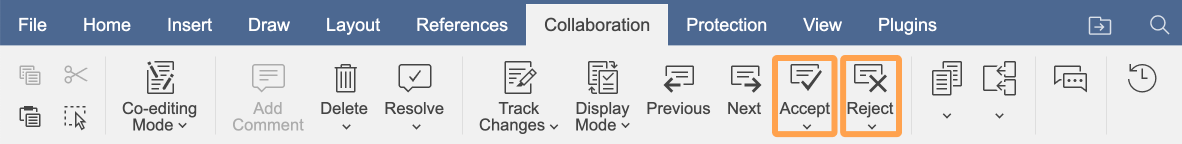
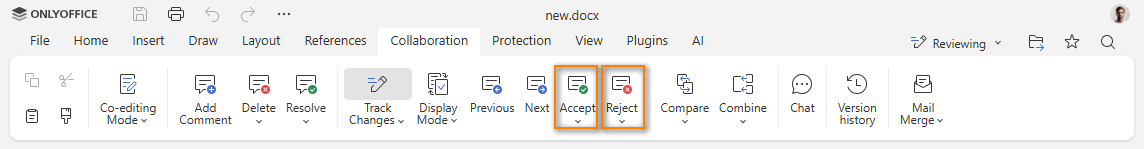
Update images for reviewing.md page add dark theme support for screenshots (EN and zh-CN)

diff --git a/i18n/zh-CN/docusaurus-plugin-content-docs-api/current/docs/docs-api/get-started/how-it-works/reviewing.md b/i18n/zh-CN/docusaurus-plugin-content-docs-api/current/docs/docs-api/get-started/how-it-works/reviewing.md
@@ -6,7 +6,7 @@ sidebar_position: -15
 
 审阅模式允许用户在不直接修改原始文本的情况下对文档提出修改建议。所有更改都会被跟踪，具有相应权限的用户可以接受或拒绝这些更改。本节介绍如何在集成中启用和配置审阅功能。
 
-![审阅](/assets/images/editor/review.png)
+![审阅](/assets/images/editor/review.png#gh-light-mode-only)![审阅](/assets/images/editor/review.dark.png#gh-dark-mode-only)
 
 ## 审阅访问权限
 
@@ -14,7 +14,7 @@ sidebar_position: -15
 
 如果 `permissions.edit` 为 `true` 且 `permissions.review` 也为 `true`，用户可以编辑文档、接受或拒绝跟踪的更改，以及切换到审阅模式。
 
-![审阅](/assets/images/editor/accept_reject.png)
+![审阅](/assets/images/editor/accept_reject.png#gh-light-mode-only)![审阅](/assets/images/editor/accept_reject.dark.png#gh-dark-mode-only)
 
 如果 `permissions.edit` 为 `false` 且 `permissions.review` 为 `true`，则文档仅可用于审阅。
 

diff --git a/site/docs/docs-api/get-started/how-it-works/reviewing.md b/site/docs/docs-api/get-started/how-it-works/reviewing.md
@@ -6,7 +6,7 @@ sidebar_position: -15
 
 Review mode lets users suggest changes to a document without modifying the original text directly. All changes are tracked and can be accepted or rejected by users with the appropriate rights. This section explains how to enable and configure reviewing in your integration.
 
-![Review scheme](/assets/images/editor/review.png)
+![Review scheme](/assets/images/editor/review.png#gh-light-mode-only)![Review scheme](/assets/images/editor/review.dark.png#gh-dark-mode-only)
 
 ## Review access rights
 
@@ -14,7 +14,7 @@ To enable reviewing, set the [`review`](../../usage-api/config/document/permissi
 
 If `permissions.edit` is `true` and `permissions.review` is also `true`, the user can edit the document, accept or reject tracked changes, and switch to review mode.
 
-![Reviewing](/assets/images/editor/accept_reject.png)
+![Reviewing](/assets/images/editor/accept_reject.png#gh-light-mode-only)![Reviewing](/assets/images/editor/accept_reject.dark.png#gh-dark-mode-only)
 
 If `permissions.edit` is `false` and `permissions.review` is `true`, the document is available for reviewing only.
 